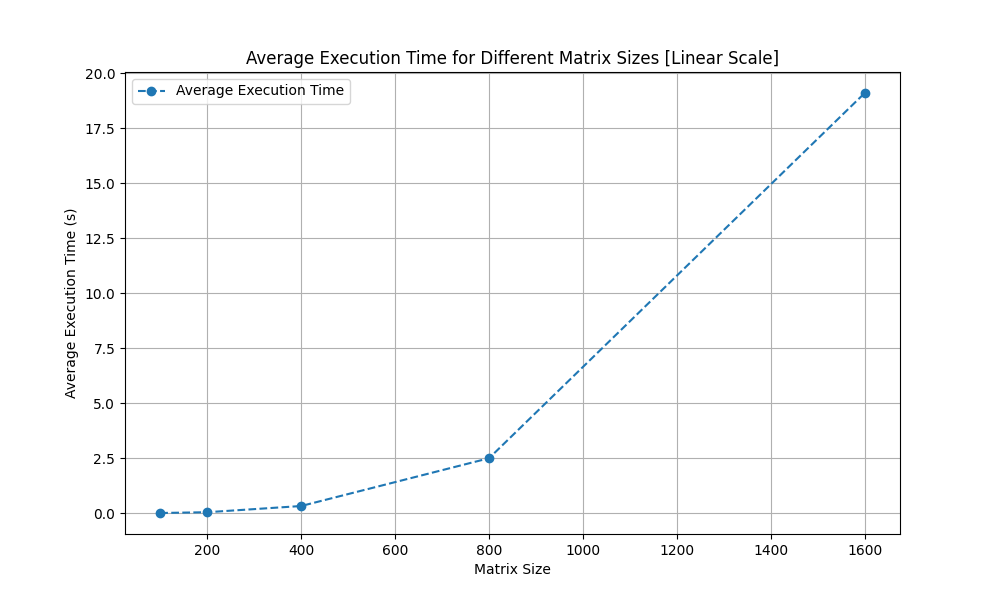
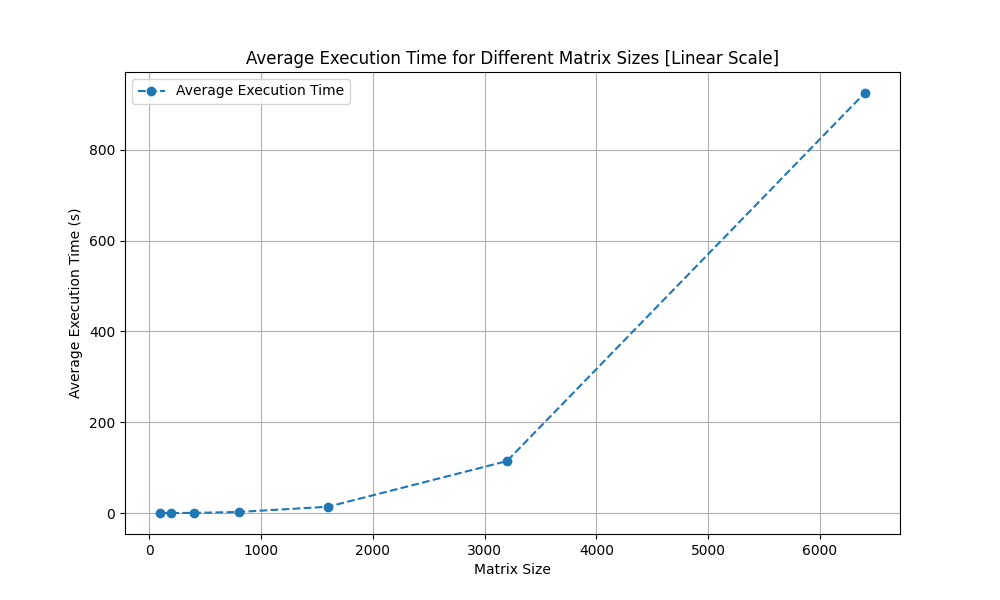
Threads tests

diff --git a/challenge1/jacob_paralel_threads.c b/challenge1/jacob_paralel_threads.c
@@ -1,0 +1,107 @@
+#include <stdio.h>
+#include <stdlib.h>
+#include <string.h>
+#include <pthread.h>
+#include "timing.c"
+
+#define NUM_THREADS 4
+
+typedef struct {
+    int start, end;
+    int n;
+    double *u, *f, *utmp;
+} thread_data_t;
+
+void *jacobi_thread(void *arg) {
+    thread_data_t *data = (thread_data_t *)arg;
+    int i;
+    double h2 = (1.0 / data->n) * (1.0 / data->n);
+
+    for (i = data->start; i < data->end; ++i) {
+        data->utmp[i] = (data->u[i-1] + data->u[i+1] + h2 * data->f[i]) / 2;
+    }
+    return NULL;
+}
+
+void jacobi(int nsweeps, int n, double* u, double* f) {
+    int sweep;
+    double *utmp = (double*) malloc((n+1) * sizeof(double));
+    utmp[0] = u[0];
+    utmp[n] = u[n];
+
+    pthread_t threads[NUM_THREADS];
+    thread_data_t thread_data[NUM_THREADS];
+    int chunk_size = n / NUM_THREADS;
+
+    for (sweep = 0; sweep < nsweeps; sweep += 2) {
+        for (int t = 0; t < NUM_THREADS; t++) {
+            thread_data[t].start = 1 + t * chunk_size;
+            thread_data[t].end = (t == NUM_THREADS - 1) ? n : (t + 1) * chunk_size;
+            thread_data[t].n = n;
+            thread_data[t].u = u;
+            thread_data[t].f = f;
+            thread_data[t].utmp = utmp;
+            pthread_create(&threads[t], NULL, jacobi_thread, &thread_data[t]);
+        }
+        for (int t = 0; t < NUM_THREADS; t++) {
+            pthread_join(threads[t], NULL);
+        }
+        
+        for (int t = 0; t < NUM_THREADS; t++) {
+            thread_data[t].u = utmp;
+            thread_data[t].utmp = u;
+            pthread_create(&threads[t], NULL, jacobi_thread, &thread_data[t]);
+        }
+        for (int t = 0; t < NUM_THREADS; t++) {
+            pthread_join(threads[t], NULL);
+        }
+    }
+
+    free(utmp);
+}
+
+void write_solution(int n, double* u, const char* fname) {
+    int i;
+    double h = 1.0 / n;
+    FILE* fp = fopen(fname, "w+");
+    for (i = 0; i <= n; ++i)
+        fprintf(fp, "%g %g\n", i*h, u[i]);
+    fclose(fp);
+}
+
+int main(int argc, char** argv) {
+    int i;
+    int n, nsteps;
+    double* u;
+    double* f;
+    double h;
+    timing_t tstart, tend;
+    char* fname;
+
+    n = (argc > 1) ? atoi(argv[1]) : 100;
+    nsteps = (argc > 2) ? atoi(argv[2]) : 100;
+    fname = (argc > 3) ? argv[3] : NULL;
+    h = 1.0 / n;
+
+    u = (double*) malloc((n+1) * sizeof(double));
+    f = (double*) malloc((n+1) * sizeof(double));
+    memset(u, 0, (n+1) * sizeof(double));
+    for (i = 0; i <= n; ++i)
+        f[i] = i * h;
+
+    get_time(&tstart);
+    jacobi(nsteps, n, u, f);
+    get_time(&tend);
+
+    printf("n: %d\n"
+           "nsteps: %d\n"
+           "Elapsed time: %g s\n", 
+           n, nsteps, timespec_diff(tstart, tend));
+
+    if (fname)
+        write_solution(n, u, fname);
+
+    free(f);
+    free(u);
+    return 0;
+}

diff --git a/tests.py b/tests.py
@@ -7,9 +7,9 @@ import numpy as np
 import pandas as pd
 
 # Nombre del ejecutable compilado
-EXECUTABLE = "./secuencial" 
-RESULT_FILE = "benchmark_results.csv"
-TEST_DIR = "tests_matrix_secuencial"
+EXECUTABLE = "./hilos" 
+RESULT_FILE = "benchmark_hilos_results.csv"
+TEST_DIR = "tests_matrix_hilos"
 
 
 # Crear directorios si no existen
@@ -102,5 +102,5 @@ def plot_results():
     print("Plots generated and saved.")
 
 if __name__ == "__main__":
-    run_tests()
+    # run_tests()
     plot_results()

diff --git a/matrix_paralel.c b/matrix_paralel.c
@@ -3,7 +3,7 @@
 #include <pthread.h>
 #include <time.h>
 
-#define MAX_THREADS 8
+#define MAX_THREADS 16
 
 int *matrixA, *matrixB, *matrixC;
 
@@ -85,7 +85,7 @@ int main(int argc, char* argv[]) {
     }
 
     clock_t end = clock();
-    printf("Time taken for matrix multiplication: %f seconds\n", (double)(end - start) / CLOCKS_PER_SEC);
+    printf("Time taken for matrix multiplication: %f\n", (double)(end - start) / CLOCKS_PER_SEC);
 
     if (verbose) {
         printf("Matrix Result:\n");
